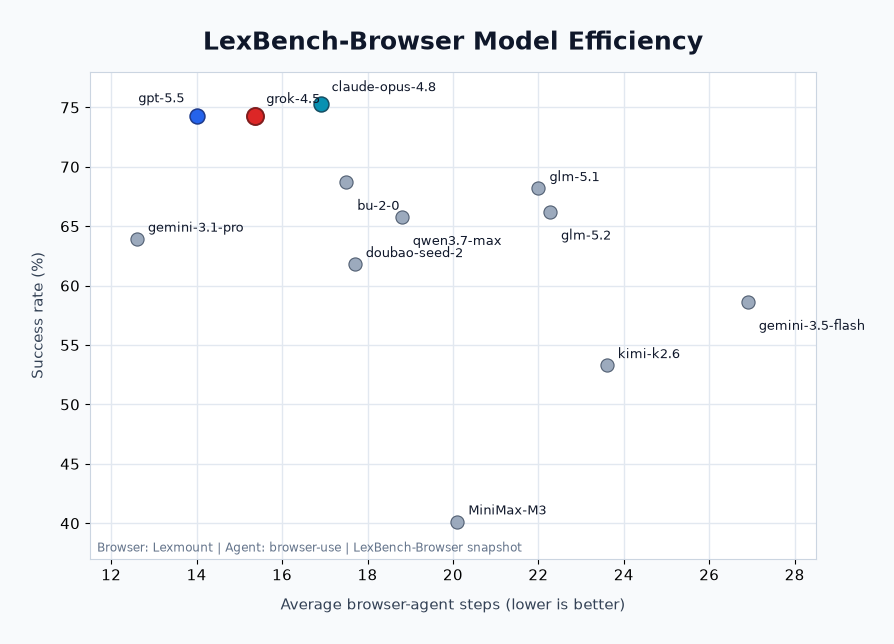
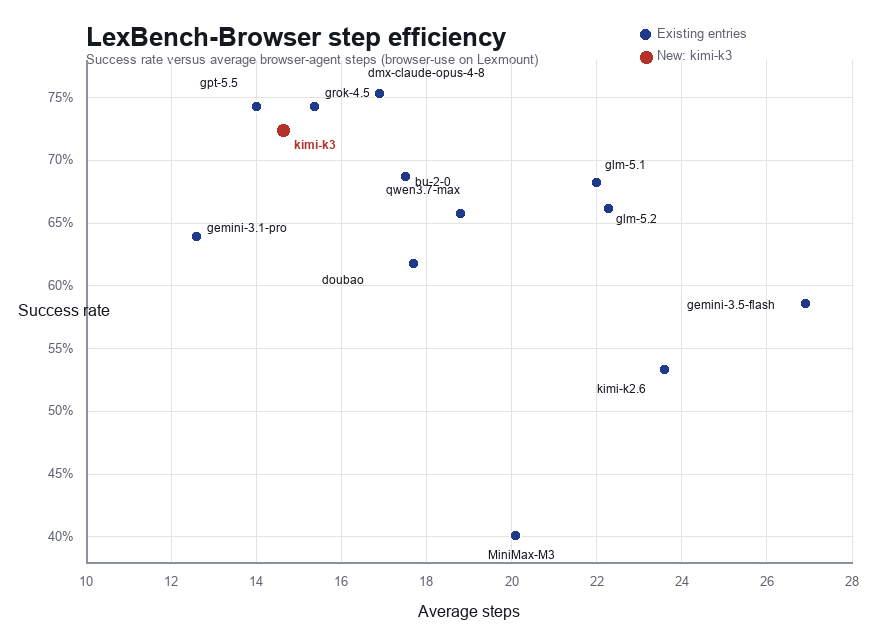
Update kimi-k3 leaderboard result
Add kimi-k3 official config, enable BaseEvaluator worker concurrency, and publish the kimi-k3 LexBench-Browser leaderboard result.

diff --git a/landing/index.html b/landing/index.html
@@ -332,14 +332,12 @@
   <div class="container">
     <h2 class="section-title">Leaderboard</h2>
     <p class="section-lede">
-      Snapshot results for browser-use on LexBench-Browser across 12 models. Click any header to
-      sort. Showing all 12 entries by success rate.
+      Snapshot results for browser-use on LexBench-Browser across 13 models. Click any header to
+      sort. Showing all 13 entries by success rate.
     </p>
     <figure class="wide-fig efficiency-fig">
       <div class="efficiency-pdf-frame">
-        <object class="efficiency-pdf" data="assets/img/steps-success-tradeoff.pdf#toolbar=0&amp;navpanes=0&amp;scrollbar=0&amp;view=Fit" type="application/pdf" aria-label="Step-efficiency scatter plot comparing model success rate and average steps">
-          <img src="assets/img/steps-success-tradeoff.png" alt="Step-efficiency scatter plot comparing model success rate and average steps" loading="lazy">
-        </object>
+        <img src="assets/img/steps-success-tradeoff.png" alt="Step-efficiency scatter plot comparing model success rate and average steps" loading="lazy">
       </div>
       <figcaption>Model efficiency view: success rate versus average browser-agent steps.</figcaption>
     </figure>
@@ -384,8 +382,17 @@
             <td class="num">15.4</td>
             <td class="num">132.2</td>
           </tr>
-          <tr data-rank="4" data-agent="browser-use" data-model="bu-2-0" data-browser="Lexmount" data-success="68.7" data-steps="17.50" data-e2e="323.8">
+          <tr data-rank="4" data-agent="browser-use" data-model="kimi-k3" data-browser="Lexmount" data-success="72.4" data-steps="14.65" data-e2e="515.6">
             <td class="num">4</td>
+            <td><span class="cell-strong">browser-use</span></td>
+            <td><code class="cell-mono">kimi-k3</code></td>
+            <td><span class="browser-pill">Lexmount</span></td>
+            <td class="num"><strong>72.4</strong></td>
+            <td class="num">14.7</td>
+            <td class="num">515.6</td>
+          </tr>
+          <tr data-rank="5" data-agent="browser-use" data-model="bu-2-0" data-browser="Lexmount" data-success="68.7" data-steps="17.50" data-e2e="323.8">
+            <td class="num">5</td>
             <td><span class="cell-strong">browser-use</span></td>
             <td><code class="cell-mono">bu-2-0</code></td>
             <td><span class="browser-pill">Lexmount</span></td>
@@ -393,8 +400,8 @@
             <td class="num">17.5</td>
             <td class="num">323.8</td>
           </tr>
-          <tr data-rank="5" data-agent="browser-use" data-model="glm-5.1" data-browser="Lexmount" data-success="68.2" data-steps="22.00" data-e2e="589.7">
-            <td class="num">5</td>
+          <tr data-rank="6" data-agent="browser-use" data-model="glm-5.1" data-browser="Lexmount" data-success="68.2" data-steps="22.00" data-e2e="589.7">
+            <td class="num">6</td>
             <td><span class="cell-strong">browser-use</span></td>
             <td><code class="cell-mono">glm-5.1</code></td>
             <td><span class="browser-pill">Lexmount</span></td>
@@ -402,8 +409,8 @@
             <td class="num">22.0</td>
             <td class="num">589.7</td>
           </tr>
-          <tr data-rank="6" data-agent="browser-use" data-model="glm-5.2" data-browser="Lexmount" data-success="66.2" data-steps="22.27" data-e2e="697.9">
-            <td class="num">6</td>
+          <tr data-rank="7" data-agent="browser-use" data-model="glm-5.2" data-browser="Lexmount" data-success="66.2" data-steps="22.27" data-e2e="697.9">
+            <td class="num">7</td>
             <td><span class="cell-strong">browser-use</span></td>
             <td><code class="cell-mono">glm-5.2</code></td>
             <td><span class="browser-pill">Lexmount</span></td>
@@ -411,8 +418,8 @@
             <td class="num">22.3</td>
             <td class="num">697.9</td>
           </tr>
-          <tr data-rank="7" data-agent="browser-use" data-model="qwen3.7-max" data-browser="Lexmount" data-success="65.8" data-steps="18.80" data-e2e="487.6">
-            <td class="num">7</td>
+          <tr data-rank="8" data-agent="browser-use" data-model="qwen3.7-max" data-browser="Lexmount" data-success="65.8" data-steps="18.80" data-e2e="487.6">
+            <td class="num">8</td>
             <td><span class="cell-strong">browser-use</span></td>
             <td><code class="cell-mono">qwen3.7-max</code></td>
             <td><span class="browser-pill">Lexmount</span></td>
@@ -420,8 +427,8 @@
             <td class="num">18.8</td>
             <td class="num">487.6</td>
           </tr>
-          <tr data-rank="8" data-agent="browser-use" data-model="gemini-3.1-pro-preview" data-browser="Lexmount" data-success="63.9" data-steps="12.60" data-e2e="368.6">
-            <td class="num">8</td>
+          <tr data-rank="9" data-agent="browser-use" data-model="gemini-3.1-pro-preview" data-browser="Lexmount" data-success="63.9" data-steps="12.60" data-e2e="368.6">
+            <td class="num">9</td>
             <td><span class="cell-strong">browser-use</span></td>
             <td><code class="cell-mono">gemini-3.1-pro-preview</code></td>
             <td><span class="browser-pill">Lexmount</span></td>
@@ -429,8 +436,8 @@
             <td class="num">12.6</td>
             <td class="num">368.6</td>
           </tr>
-          <tr data-rank="9" data-agent="browser-use" data-model="doubao-seed-2-0-pro" data-browser="Lexmount" data-success="61.8" data-steps="17.70" data-e2e="595.3">
-            <td class="num">9</td>
+          <tr data-rank="10" data-agent="browser-use" data-model="doubao-seed-2-0-pro" data-browser="Lexmount" data-success="61.8" data-steps="17.70" data-e2e="595.3">
+            <td class="num">10</td>
             <td><span class="cell-strong">browser-use</span></td>
             <td><code class="cell-mono">doubao-seed-2-0-pro</code></td>
             <td><span class="browser-pill">Lexmount</span></td>
@@ -438,8 +445,8 @@
             <td class="num">17.7</td>
             <td class="num">595.3</td>
           </tr>
-          <tr data-rank="10" data-agent="browser-use" data-model="gemini-3.5-flash" data-browser="Lexmount" data-success="58.6" data-steps="26.90" data-e2e="376.4">
-            <td class="num">10</td>
+          <tr data-rank="11" data-agent="browser-use" data-model="gemini-3.5-flash" data-browser="Lexmount" data-success="58.6" data-steps="26.90" data-e2e="376.4">
+            <td class="num">11</td>
             <td><span class="cell-strong">browser-use</span></td>
             <td><code class="cell-mono">gemini-3.5-flash</code></td>
             <td><span class="browser-pill">Lexmount</span></td>
@@ -447,8 +454,8 @@
             <td class="num">26.9</td>
             <td class="num">376.4</td>
           </tr>
-          <tr data-rank="11" data-agent="browser-use" data-model="kimi-k2.6" data-browser="Lexmount" data-success="53.3" data-steps="23.60" data-e2e="433.4">
-            <td class="num">11</td>
+          <tr data-rank="12" data-agent="browser-use" data-model="kimi-k2.6" data-browser="Lexmount" data-success="53.3" data-steps="23.60" data-e2e="433.4">
+            <td class="num">12</td>
             <td><span class="cell-strong">browser-use</span></td>
             <td><code class="cell-mono">kimi-k2.6</code></td>
             <td><span class="browser-pill">Lexmount</span></td>
@@ -456,8 +463,8 @@
             <td class="num">23.6</td>
             <td class="num">433.4</td>
           </tr>
-          <tr data-rank="12" data-agent="browser-use" data-model="MiniMax-M3" data-browser="Lexmount" data-success="40.1" data-steps="20.10" data-e2e="584.5">
-            <td class="num">12</td>
+          <tr data-rank="13" data-agent="browser-use" data-model="MiniMax-M3" data-browser="Lexmount" data-success="40.1" data-steps="20.10" data-e2e="584.5">
+            <td class="num">13</td>
             <td><span class="cell-strong">browser-use</span></td>
             <td><code class="cell-mono">MiniMax-M3</code></td>
             <td><span class="browser-pill">Lexmount</span></td>

diff --git a/browseruse_bench/eval/base.py b/browseruse_bench/eval/base.py
@@ -4,6 +4,7 @@ from __future__ import annotations
 import json
 import logging
 from abc import ABC, abstractmethod
+from concurrent.futures import ThreadPoolExecutor, as_completed
 from dataclasses import dataclass, field
 from datetime import UTC, datetime
 from pathlib import Path
@@ -96,22 +97,52 @@ class BaseEvaluator(ABC):
         pending: List[str],
         tasks: Dict[str, Dict[str, Any]],
     ) -> Iterator[EvalResult]:
+        max_workers = max(1, self.args.num_worker or 1)
+        if max_workers == 1 or len(pending) <= 1:
+            yield from self._run_iteration_serial(pending, tasks)
+            return
+
+        logger.info("Evaluating with %d worker threads", max_workers)
+        with ThreadPoolExecutor(max_workers=max_workers) as executor:
+            futures = {
+                executor.submit(self._evaluate_task_safe, task_id, tasks[task_id]): task_id
+                for task_id in pending
+            }
+            for future in as_completed(futures):
+                result = future.result()
+                if result is not None:
+                    yield result
+
+    def _run_iteration_serial(
+        self,
+        pending: List[str],
+        tasks: Dict[str, Dict[str, Any]],
+    ) -> Iterator[EvalResult]:
         # Per-task isolation: a single task's failure (transient API error,
         # upstream content-policy rejection on a screenshot, malformed result
         # JSON) must not abort the whole batch. Subclasses with post-eval hooks
         # may backfill synthetic failure records for skipped tasks.
         for task_id in pending:
-            trajectory_dir = self.args.trajectories_dir / task_id
-            token = current_task_id.set(task_id)
-            try:
-                with open(trajectory_dir / "result.json", encoding="utf-8") as fh:
-                    agent_result = json.load(fh)
-                yield self.evaluate_one(task_id, tasks[task_id], agent_result, trajectory_dir)
-            except (OSError, ValueError, KeyError, RuntimeError, openai.OpenAIError) as exc:
-                logger.exception("Error evaluating task %s: %s", task_id, exc)
-                continue
-            finally:
-                current_task_id.reset(token)
+            result = self._evaluate_task_safe(task_id, tasks[task_id])
+            if result is not None:
+                yield result
+
+    def _evaluate_task_safe(
+        self,
+        task_id: str,
+        task: Dict[str, Any],
+    ) -> Optional[EvalResult]:
+        trajectory_dir = self.args.trajectories_dir / task_id
+        token = current_task_id.set(task_id)
+        try:
+            with open(trajectory_dir / "result.json", encoding="utf-8") as fh:
+                agent_result = json.load(fh)
+            return self.evaluate_one(task_id, task, agent_result, trajectory_dir)
+        except (OSError, ValueError, KeyError, RuntimeError, openai.OpenAIError) as exc:
+            logger.exception("Error evaluating task %s: %s", task_id, exc)
+            return None
+        finally:
+            current_task_id.reset(token)
 
     # ---- Final scaffolding (do not override) --------------------------
     def results_path(self) -> Path:

diff --git a/tests/browseruse_bench/test_eval_base.py b/tests/browseruse_bench/test_eval_base.py
@@ -2,6 +2,7 @@
 from __future__ import annotations
 
 import json
+import threading
 from dataclasses import fields, is_dataclass
 from datetime import datetime, timezone
 from pathlib import Path
@@ -31,7 +32,7 @@ def test_evaluator_args_required_fields():
     assert expected.issubset(field_names)
 
 
-def _make_args(tmp_path: Path, force_reeval: bool = False) -> EvaluatorArgs:
+def _make_args(tmp_path: Path, force_reeval: bool = False, num_worker: int = 1) -> EvaluatorArgs:
     traj = tmp_path / "tasks"
     traj.mkdir()
     out = tmp_path / "out"
@@ -44,7 +45,7 @@ def _make_args(tmp_path: Path, force_reeval: bool = False) -> EvaluatorArgs:
         trajectories_dir=traj,
         output_path=out,
         score_threshold=None,
-        num_worker=1,
+        num_worker=num_worker,
         temperature=None,
         split="All",
         data_source="local",
@@ -307,4 +308,29 @@ def test_run_iteration_sets_contextvar_per_task(tmp_path):
 
     assert seen == ["t1", "t2"]
     # contextvar must reset to default after the loop completes
+    assert current_task_id.get() == "-"
+
+
+def test_run_iteration_uses_worker_threads_when_requested(tmp_path):
+    """A multi-worker eval should process tasks concurrently while preserving task context."""
+    from browseruse_bench.eval.model import current_task_id
+
+    args = _make_args(tmp_path, num_worker=2)
+    _seed_trajectories(args, ("t1", "t2"))
+    barrier = threading.Barrier(2)
+    seen: list[str] = []
+
+    class _ParallelEvaluator(_FakeEvaluator):
+        def evaluate_one(self, task_id, task, agent_result, trajectory_dir):
+            seen.append(current_task_id.get())
+            barrier.wait(timeout=2)
+            return super().evaluate_one(task_id, task, agent_result, trajectory_dir)
+
+    ev = _ParallelEvaluator(
+        args, model=None, tasks={"t1": {"desc": "a"}, "t2": {"desc": "b"}},
+    )
+
+    ev.run()
+
+    assert sorted(seen) == ["t1", "t2"]
     assert current_task_id.get() == "-"

diff --git a/tests/browseruse_bench/test_config_loader.py b/tests/browseruse_bench/test_config_loader.py
@@ -208,10 +208,10 @@ def test_resolve_agent_inline_config_no_passthrough_for_provider_agents() -> Non
 def test_resolve_agent_inline_config_uses_explicit_model_override(tmp_path: Path) -> None:
     config = load_config_file(_write_runtime_root_config(tmp_path))
 
-    inline = resolve_agent_inline_config("browser-use", config, "qwen-plus")
+    inline = resolve_agent_inline_config("browser-use", config, "qwen3.7-max")
 
     assert inline is not None
-    assert inline.get("model_id") == "qwen3.5-plus"
+    assert inline.get("model_id") == "qwen3.7-max"
     assert inline.get("browser_id") == "lexmount"
 
 

diff --git a/tests/browseruse_bench/test_logger.py b/tests/browseruse_bench/test_logger.py
@@ -137,7 +137,7 @@ def test_propagating_module_logger_emits_line_once(clean_root_logger, capsys):
     module_logger.info("unique-regression-marker")
 
     captured = capsys.readouterr()
-    assert captured.out.count("unique-regression-marker") == 1
+    assert captured.err.count("unique-regression-marker") == 1
 
 
 def test_setup_logger_never_attaches_file_handlers(clean_root_logger):